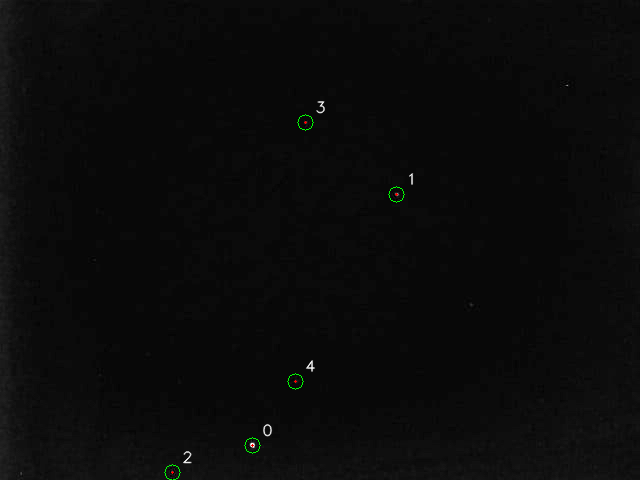
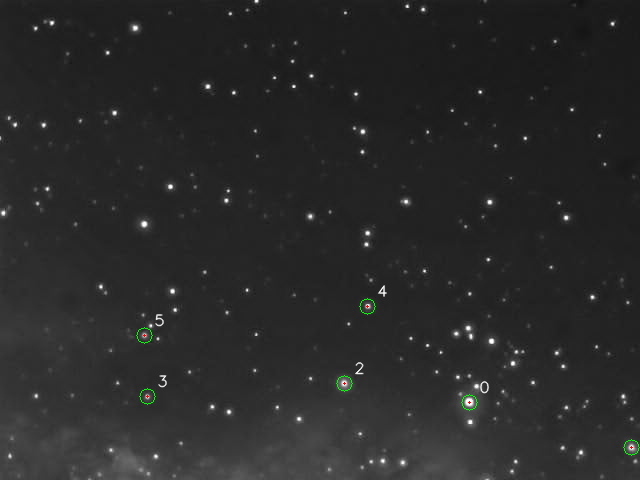
test

diff --git a/run_kvector.py b/run_kvector.py
@@ -5,11 +5,11 @@ from kvector import load_tetra_catalog, build_kvector_database, filter_catalog_b
 from geometric_voting import Star, Camera, geometric_voting_star_id
 
 # parameters
-fov = 21.5 # horizontal, unit: degree
-resolution = (640, 480) # pixel
-pic_name = "8233ba5b-84ae-4cd7-8440-428d6e22cd64.jfif" # need loop for automation when onboard
+fov = 75 # horizontal, unit: degree
+resolution = (640, 480) # pixel (width, height)
+pic_name = "faceb1b0-1eba-4234-a94e-25caa29ac5bc.jfif" # need loop for automation when onboard
 sigma_threshold = 6 # detector's magnitude threshold
-min_area = 2 # detector's threshold on min area of star dots
+min_area = 5 # detector's threshold on min area of star dots
 catalog_max_mag = 4 # magnitude threshold to filter the catalog, need to regenerate a filtered catalog before onboard
 
 
@@ -57,7 +57,7 @@ results = geometric_voting_star_id(
     catalog=catalog,
     camera=camera,
     tolerance=0.1,
-    top_k_per_star=8,
+    top_k_per_star=10,
     min_score_ratio=0.70
 )
 
